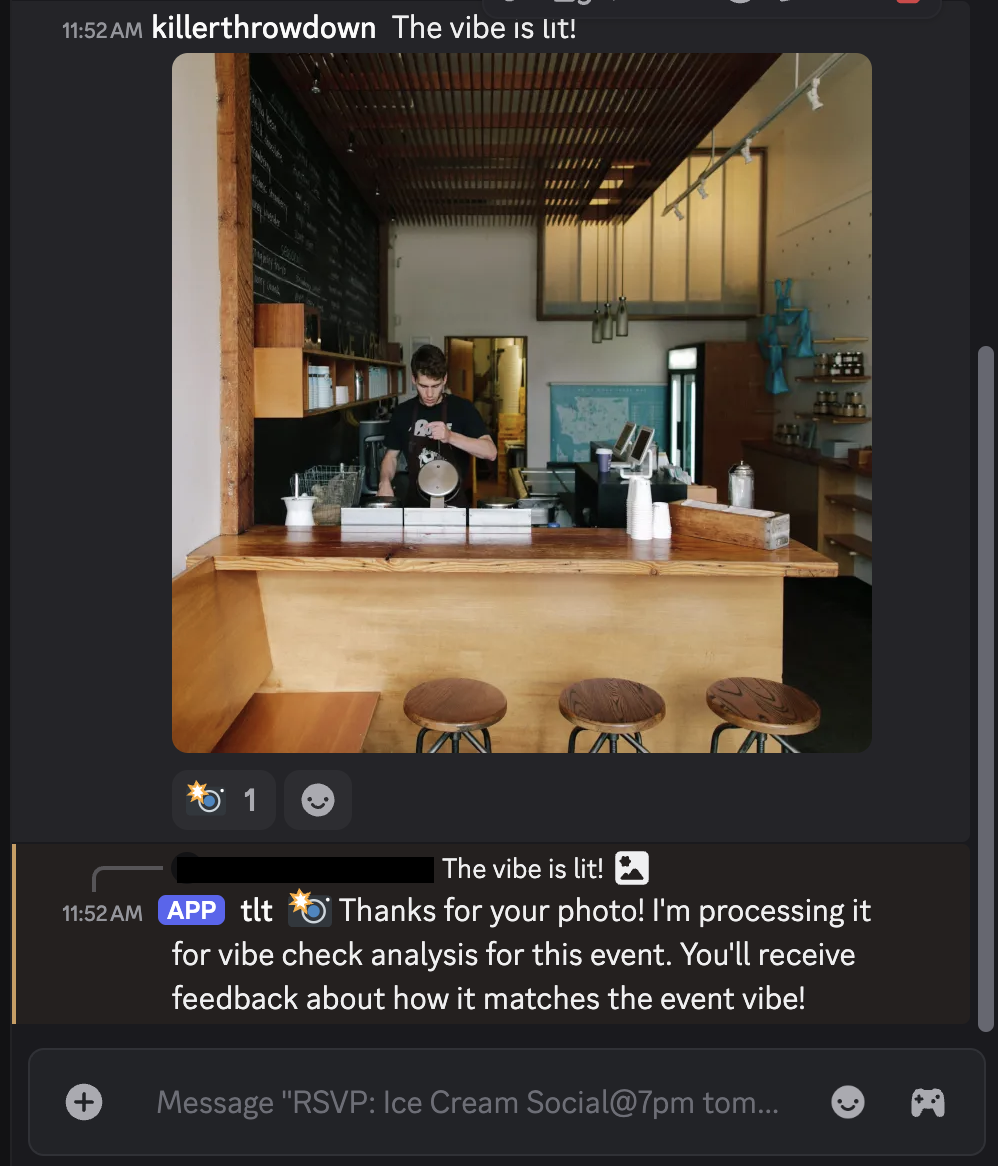
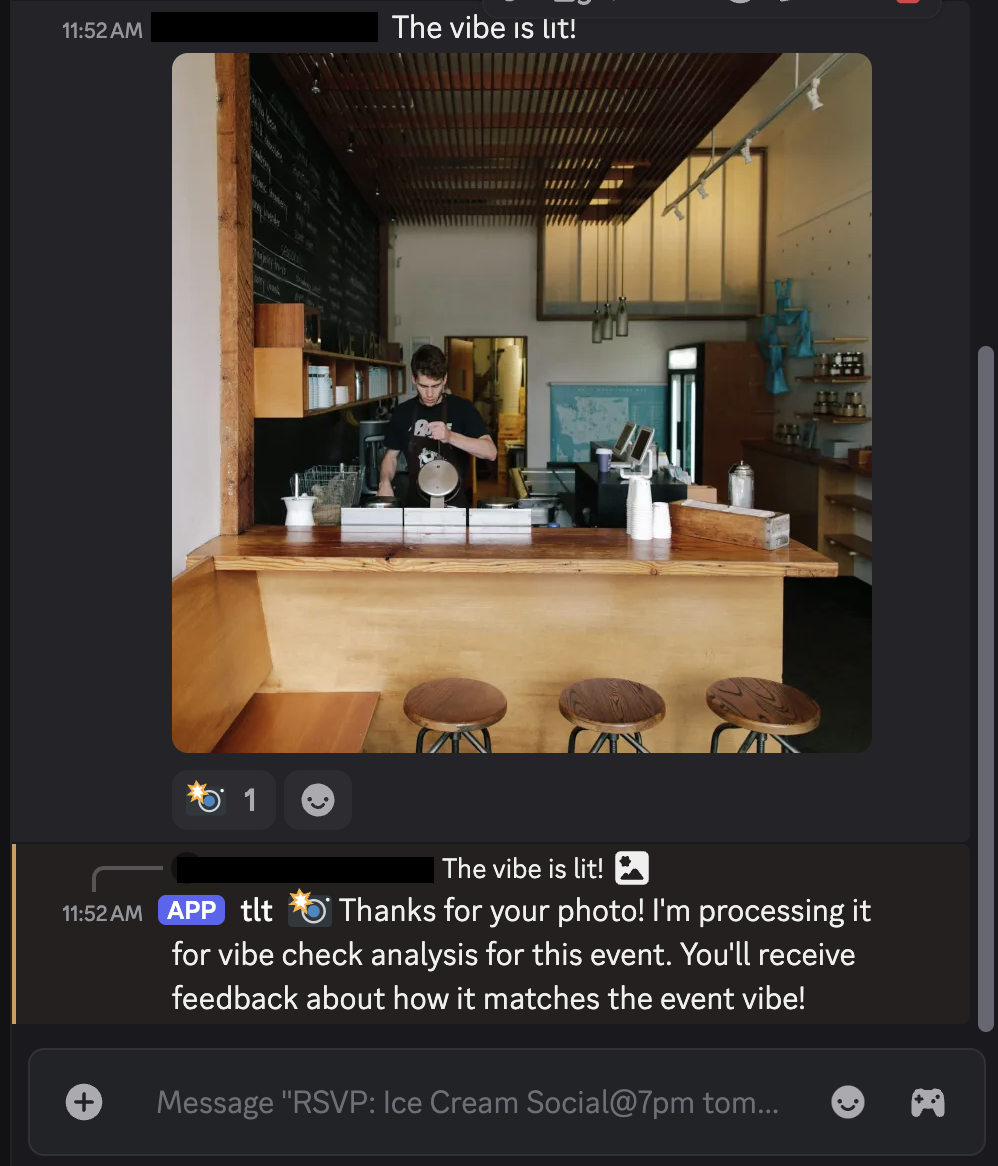
cleanup

Changed region(s): [[0.1553, 0.0, 0.4038, 0.0617]]

diff --git a/monorepo/tlt/scripts/redact_images.py b/monorepo/tlt/scripts/redact_images.py
@@ -91,7 +91,7 @@ class ImageRedactor:
         except ValueError:
             return False
     
-    def redact_text_in_image(self, image_path: str, output_path: str, target_phrase: str = None, auto_redact: bool = False) -> int:
+    def redact_text_in_image(self, image_path: str, output_path: str, target_phrase: str = None, auto_redact: bool = False, debug: bool = False) -> int:
         """
         Redact sensitive text from an image.
         
@@ -100,6 +100,7 @@ class ImageRedactor:
             output_path: Path to save redacted image
             target_phrase: Specific phrase to redact (if provided)
             auto_redact: Whether to automatically redact sensitive data
+            debug: Print debug information about OCR detection
             
         Returns:
             Number of redactions made
@@ -109,54 +110,278 @@ class ImageRedactor:
             draw = ImageDraw.Draw(image)
             redactions_made = 0
             
-            # Perform OCR with bounding boxes
-            ocr_data = pytesseract.image_to_data(image, output_type=pytesseract.Output.DICT)
+            # Perform OCR with bounding boxes - try multiple configurations for better detection
+            ocr_configs = [
+                '',  # Default config
+                '--psm 6',  # Treat image as single uniform block
+                '--psm 8',  # Treat image as single word
+                '--psm 13',  # Raw line. Treat image as single text line
+                '-c tessedit_char_whitelist=abcdefghijklmnopqrstuvwxyzABCDEFGHIJKLMNOPQRSTUVWXYZ0123456789'  # Letters and numbers only
+            ]
             
+            all_ocr_data = []
+            for config in ocr_configs:
+                try:
+                    data = pytesseract.image_to_data(image, output_type=pytesseract.Output.DICT, config=config)
+                    all_ocr_data.append(data)
+                    if debug and target_phrase:
+                        valid_texts = [data['text'][i].strip() for i in range(len(data['text'])) if data['text'][i].strip()]
+                        print(f"DEBUG: OCR config '{config}' found {len(valid_texts)} text elements")
+                except:
+                    continue
+            
+            # Use the first (default) configuration as primary
+            ocr_data = all_ocr_data[0] if all_ocr_data else {'text': [], 'left': [], 'top': [], 'width': [], 'height': [], 'conf': []}
+            
+            # Combine results from all configurations for better coverage
+            combined_texts = set()
+            for data in all_ocr_data:
+                for i in range(len(data['text'])):
+                    text = data['text'][i].strip()
+                    if text and len(text) > 2:  # Only include meaningful text
+                        combined_texts.add(text.lower())
+            
+            # Filter out empty text elements
+            valid_indices = []
             for i in range(len(ocr_data['text'])):
                 text = ocr_data['text'][i].strip()
+                if text:
+                    valid_indices.append(i)
+            
+            if debug and target_phrase:
+                print(f"\nDEBUG: OCR detected {len(valid_indices)} text elements:")
+                for i in valid_indices:
+                    text = ocr_data['text'][i].strip()
+                    conf = ocr_data['conf'][i]
+                    x, y = ocr_data['left'][i], ocr_data['top'][i]
+                    print(f"  [{i}] '{text}' (conf: {conf}, pos: {x},{y})")
+                print(f"\nDEBUG: Combined texts from all OCR configs: {sorted(combined_texts)}")
+            
+            # Track which elements to redact
+            elements_to_redact = set()
+            direct_redaction_areas = []  # List of (x, y, w, h) tuples for direct coordinate redaction
+            
+            if target_phrase:
+                target_lower = target_phrase.lower()
+                if debug:
+                    print(f"\nDEBUG: Looking for phrase: '{target_phrase}' (lowercase: '{target_lower}')")
                 
-                # Skip empty text
-                if not text:
-                    continue
+                # Check if phrase exists in any of the combined OCR results
+                phrase_found_in_combined = any(target_lower in text for text in combined_texts)
+                if debug and phrase_found_in_combined:
+                    matching_texts = [text for text in combined_texts if target_lower in text]
+                    print(f"DEBUG: Phrase found in combined OCR results: {matching_texts}")
                 
-                should_redact = False
+                # First, try to find exact phrase matches in individual elements across ALL OCR configurations
+                for data_idx, data in enumerate(all_ocr_data):
+                    config_name = ocr_configs[data_idx] if data_idx < len(ocr_configs) else f"config_{data_idx}"
+                    for i in range(len(data['text'])):
+                        text = data['text'][i].strip().lower()
+                        if text and target_lower in text:
+                            # Found the phrase! Now find corresponding element in primary OCR data
+                            x, y, w, h = data['left'][i], data['top'][i], data['width'][i], data['height'][i]
+                            
+                            # Find overlapping elements in primary OCR data
+                            for j in valid_indices:
+                                primary_x = ocr_data['left'][j]
+                                primary_y = ocr_data['top'][j]
+                                primary_w = ocr_data['width'][j]
+                                primary_h = ocr_data['height'][j]
+                                
+                                # Check if bounding boxes overlap significantly
+                                overlap_x = max(0, min(x + w, primary_x + primary_w) - max(x, primary_x))
+                                overlap_y = max(0, min(y + h, primary_y + primary_h) - max(y, primary_y))
+                                overlap_area = overlap_x * overlap_y
+                                
+                                # If there's significant overlap (at least 30% of either box)
+                                area1 = w * h
+                                area2 = primary_w * primary_h
+                                if area1 > 0 and area2 > 0:
+                                    overlap_ratio = overlap_area / min(area1, area2)
+                                    if overlap_ratio >= 0.3:
+                                        elements_to_redact.add(j)
+                                        if debug:
+                                            print(f"DEBUG: Found phrase in {config_name} at ({x},{y},{w},{h})")
+                                            print(f"DEBUG: Mapped to primary element [{j}]: '{ocr_data['text'][j].strip()}' at ({primary_x},{primary_y})")
+                            
+                            # If no overlapping elements found, add direct redaction coordinates
+                            if not any(True for _ in elements_to_redact):  # Check if no elements added yet for this phrase
+                                direct_redaction_areas.append((x, y, w, h))
+                                if debug:
+                                    print(f"DEBUG: Added direct redaction area at ({x},{y},{w},{h})")
                 
-                if target_phrase:
-                    # Redact specific phrase
-                    if target_phrase.lower() in text.lower():
-                        should_redact = True
+                # Also check primary OCR data elements
+                for i in valid_indices:
+                    text = ocr_data['text'][i].strip().lower()
+                    if target_lower in text:
+                        elements_to_redact.add(i)
+                        if debug:
+                            print(f"DEBUG: Found exact match in primary element [{i}]: '{ocr_data['text'][i].strip()}'")
                 
-                if auto_redact:
-                    # Auto-redact sensitive information
+                # If no exact matches found, try to find phrase across multiple elements
+                if not elements_to_redact:
+                    if debug:
+                        print("DEBUG: No exact matches found, trying multi-element reconstruction...")
+                    
+                    # Build a reconstructed text with position mapping
+                    reconstructed_text = ""
+                    char_to_element = []
+                    
+                    for idx, i in enumerate(valid_indices):
+                        text = ocr_data['text'][i].strip()
+                        start_pos = len(reconstructed_text)
+                        
+                        # Add space if this isn't the first element and we're on same line roughly
+                        if idx > 0:
+                            prev_i = valid_indices[idx - 1]
+                            # Check if elements are on roughly the same line (within 10 pixels)
+                            if abs(ocr_data['top'][i] - ocr_data['top'][prev_i]) <= 10:
+                                reconstructed_text += " "
+                                char_to_element.append(None)  # Space doesn't belong to any element
+                        
+                        reconstructed_text += text
+                        # Map each character to its OCR element index
+                        for _ in range(len(text)):
+                            char_to_element.append(i)
+                    
+                    if debug:
+                        print(f"DEBUG: Reconstructed text: '{reconstructed_text}'")
+                        print(f"DEBUG: Reconstructed lowercase: '{reconstructed_text.lower()}'")
+                    
+                    # Search for target phrase in reconstructed text
+                    reconstructed_lower = reconstructed_text.lower()
+                    phrase_start = reconstructed_lower.find(target_lower)
+                    
+                    if phrase_start != -1:
+                        phrase_end = phrase_start + len(target_phrase)
+                        if debug:
+                            print(f"DEBUG: Found phrase at positions {phrase_start}-{phrase_end} in reconstructed text")
+                        
+                        # Find all OCR elements that contain part of the phrase
+                        for char_pos in range(phrase_start, phrase_end):
+                            if char_pos < len(char_to_element) and char_to_element[char_pos] is not None:
+                                elements_to_redact.add(char_to_element[char_pos])
+                                if debug:
+                                    elem_idx = char_to_element[char_pos]
+                                    print(f"DEBUG: Will redact element [{elem_idx}]: '{ocr_data['text'][elem_idx].strip()}'")
+                    elif debug:
+                        print(f"DEBUG: Phrase '{target_phrase}' not found in reconstructed text")
+                
+                if debug:
+                    print(f"DEBUG: Total elements to redact: {len(elements_to_redact)}")
+            
+            # Only try aggressive approaches if phrase was not found at all
+            phrase_found_anywhere = len(elements_to_redact) > 0 or len(direct_redaction_areas) > 0
+            
+            if target_phrase and not phrase_found_anywhere:
+                if debug:
+                    print("DEBUG: Phrase not found anywhere, trying fallback approaches...")
+                
+                # Try character-by-character fuzzy matching only as last resort
+                if debug:
+                    print("DEBUG: Trying character-by-character approach...")
+                target_chars = set(target_phrase.lower().replace(" ", ""))
+                for i in valid_indices:
+                    text = ocr_data['text'][i].strip().lower().replace(" ", "")
+                    # If this text element contains a significant portion of target phrase characters
+                    matching_chars = len(target_chars.intersection(set(text)))
+                    if len(text) >= 3 and matching_chars >= min(len(target_chars) * 0.6, len(text) * 0.8):
+                        elements_to_redact.add(i)
+                        if debug:
+                            print(f"DEBUG: Fuzzy match in element [{i}]: '{ocr_data['text'][i].strip()}' (chars: {matching_chars}/{len(target_chars)})")
+                
+                # If still no matches and phrase found in combined results, try spatial approach
+                if not elements_to_redact and phrase_found_in_combined:
+                    if debug:
+                        print("DEBUG: Phrase found in combined OCR but not in individual elements, using spatial approach...")
+                    
+                    # Look for text elements in the top area of the image where usernames typically appear
+                    image_height = image.height
+                    top_area_threshold = image_height * 0.15  # Top 15% of image
+                    
+                    for i in valid_indices:
+                        y = ocr_data['top'][i]
+                        if y <= top_area_threshold:
+                            # This is in the top area, include it for redaction
+                            elements_to_redact.add(i)
+                            if debug:
+                                print(f"DEBUG: Including top-area element [{i}]: '{ocr_data['text'][i].strip()}' at y={y}")
+                
+                # If still no matches, try to find any text that contains partial matches of the target phrase
+                if not elements_to_redact:
+                    if debug:
+                        print("DEBUG: Trying partial substring matching...")
+                    
+                    # Try to find elements that contain substrings of the target phrase
+                    target_parts = [target_phrase[i:i+4] for i in range(len(target_phrase)-3)]  # 4-char substrings
+                    for part in target_parts:
+                        part_lower = part.lower()
+                        for i in valid_indices:
+                            text = ocr_data['text'][i].strip().lower()
+                            if part_lower in text:
+                                elements_to_redact.add(i)
+                                if debug:
+                                    print(f"DEBUG: Partial match '{part}' in element [{i}]: '{ocr_data['text'][i].strip()}'")
+            elif debug and target_phrase:
+                print(f"DEBUG: Phrase found via direct coordinates, skipping fallback approaches")
+            
+            # Check for auto-redact patterns
+            if auto_redact:
+                for i in valid_indices:
+                    text = ocr_data['text'][i].strip()
                     if self.is_sensitive_text(text):
-                        should_redact = True
+                        elements_to_redact.add(i)
+            
+            # Redact marked elements
+            for i in elements_to_redact:
+                x, y, w, h = (
+                    ocr_data['left'][i],
+                    ocr_data['top'][i],
+                    ocr_data['width'][i],
+                    ocr_data['height'][i]
+                )
                 
-                if should_redact:
-                    x, y, w, h = (
-                        ocr_data['left'][i],
-                        ocr_data['top'][i],
-                        ocr_data['width'][i],
-                        ocr_data['height'][i]
-                    )
-                    
-                    # Add padding to ensure complete coverage
-                    padding = 2
-                    x = max(0, x - padding)
-                    y = max(0, y - padding)
-                    w = w + (padding * 2)
-                    h = h + (padding * 2)
-                    
-                    # Draw black rectangle to redact text
-                    draw.rectangle([(x, y), (x + w, y + h)], fill="black")
-                    redactions_made += 1
+                # Add padding to ensure complete coverage
+                padding = 2
+                x = max(0, x - padding)
+                y = max(0, y - padding)
+                w = w + (padding * 2)
+                h = h + (padding * 2)
+                
+                # Draw black rectangle to redact text
+                draw.rectangle([(x, y), (x + w, y + h)], fill="black")
+                redactions_made += 1
+            
+            # Redact direct coordinate areas
+            for x, y, w, h in direct_redaction_areas:
+                # Add padding to ensure complete coverage
+                padding = 2
+                x = max(0, x - padding)
+                y = max(0, y - padding)
+                w = w + (padding * 2)
+                h = h + (padding * 2)
+                
+                # Draw black rectangle to redact text
+                draw.rectangle([(x, y), (x + w, y + h)], fill="black")
+                redactions_made += 1
+                if debug:
+                    print(f"DEBUG: Applied direct redaction at ({x},{y},{w},{h})")
             
             # Save redacted image
             image.save(output_path)
             
             if redactions_made > 0:
                 print(f"Redacted {redactions_made} items in: {os.path.basename(image_path)} → {output_path}")
+                if target_phrase:
+                    print(f"  Target phrase: '{target_phrase}'")
+                    if elements_to_redact:
+                        print(f"  Element-based redactions: {len(elements_to_redact)}")
+                    if direct_redaction_areas:
+                        print(f"  Direct coordinate redactions: {len(direct_redaction_areas)}")
             else:
                 print(f"No redactions needed: {os.path.basename(image_path)} → {output_path}")
+                if target_phrase:
+                    print(f"  Phrase '{target_phrase}' not found")
             
             return redactions_made
             
@@ -164,7 +389,7 @@ class ImageRedactor:
             print(f"Error processing {image_path}: {e}")
             return 0
     
-    def redact_directory(self, input_dir: str, output_dir: str, target_phrase: str = None, auto_redact: bool = False) -> None:
+    def redact_directory(self, input_dir: str, output_dir: str, target_phrase: str = None, auto_redact: bool = False, debug: bool = False) -> None:
         """
         Redact all images in a directory.
         
@@ -173,6 +398,7 @@ class ImageRedactor:
             output_dir: Directory to save redacted images
             target_phrase: Specific phrase to redact (if provided)
             auto_redact: Whether to automatically redact sensitive data
+            debug: Print debug information about OCR detection
         """
         if not os.path.exists(input_dir):
             print(f"Error: Input directory does not exist: {input_dir}")
@@ -187,7 +413,7 @@ class ImageRedactor:
                 input_path = os.path.join(input_dir, filename)
                 output_path = os.path.join(output_dir, filename)
                 
-                redactions = self.redact_text_in_image(input_path, output_path, target_phrase, auto_redact)
+                redactions = self.redact_text_in_image(input_path, output_path, target_phrase, auto_redact, debug)
                 self.redaction_count += redactions
                 self.total_images += 1
         
@@ -293,6 +519,12 @@ Examples:
         help='Enable verbose output'
     )
     
+    parser.add_argument(
+        '--debug',
+        action='store_true',
+        help='Enable debug output showing OCR detection details'
+    )
+    
     args = parser.parse_args()
     
     # Validate arguments
@@ -316,7 +548,8 @@ Examples:
         input_dir=args.input_dir,
         output_dir=args.output_dir,
         target_phrase=args.phrase,
-        auto_redact=args.auto_redact
+        auto_redact=args.auto_redact,
+        debug=args.debug
     )
     
     # Create redaction report
